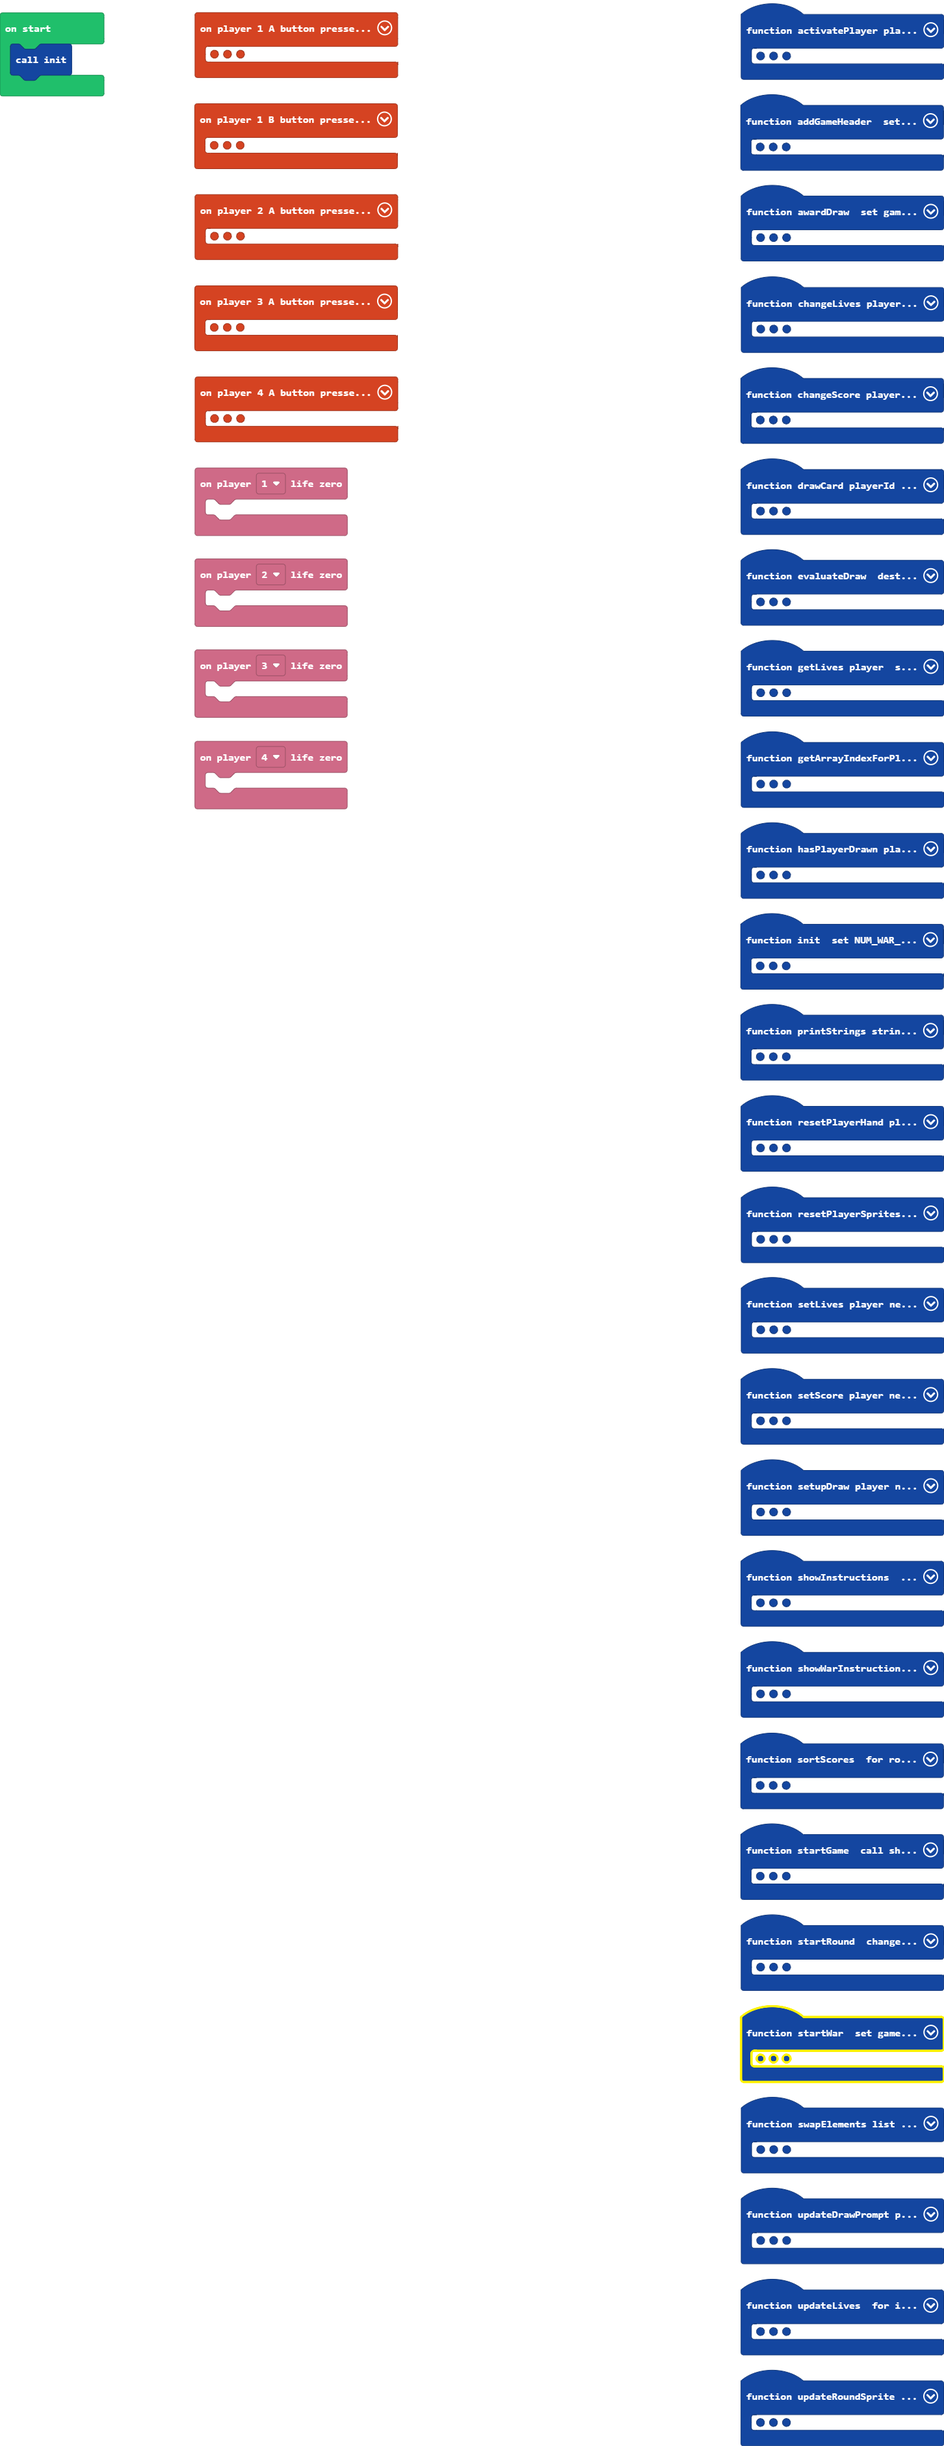
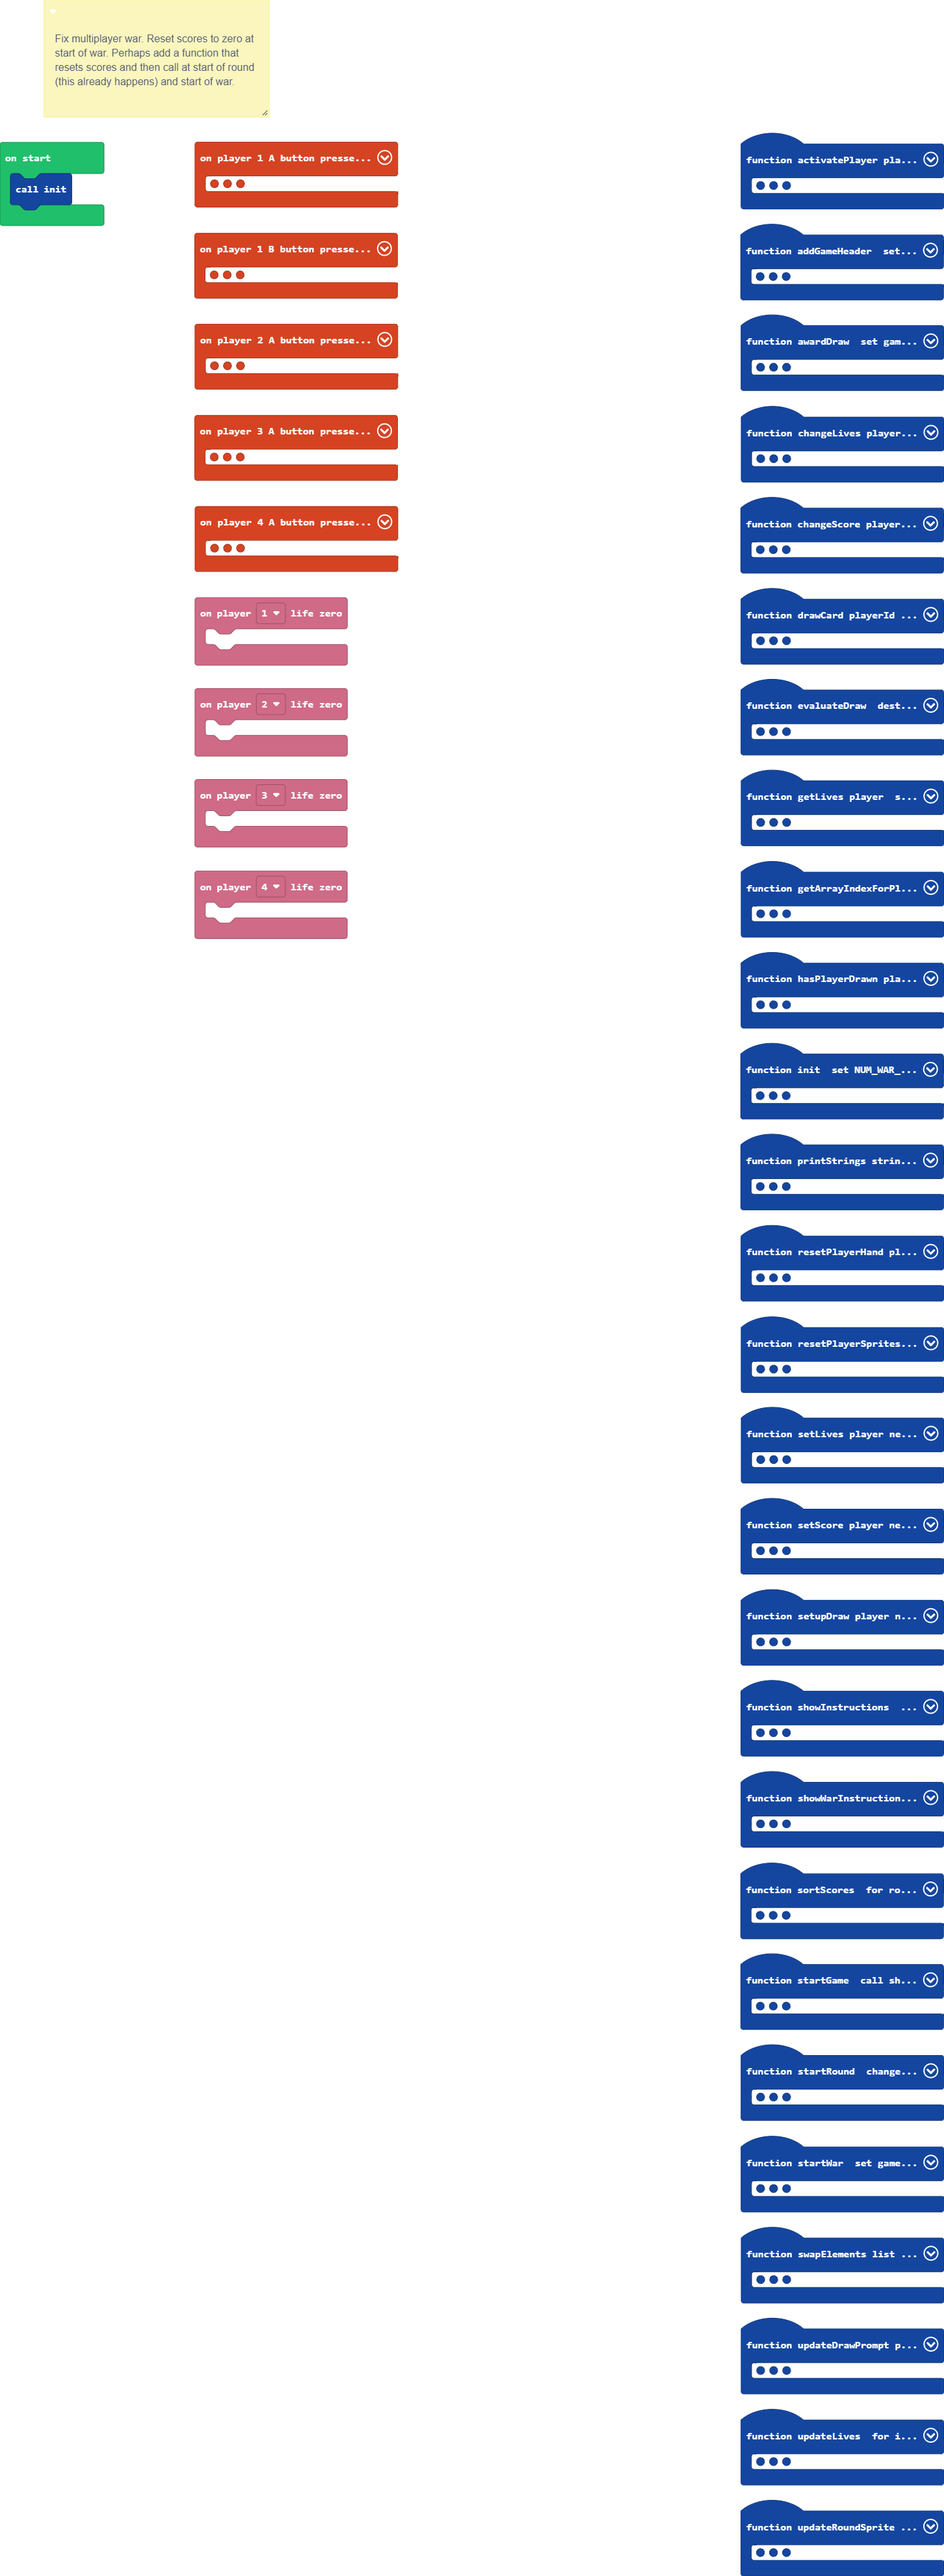
Add comment as reminder of next bug fix.

Changed region(s): [[0.7748, 0.0, 1.0, 0.9952], [0.0, 0.0, 0.4339, 0.3732]]

diff --git a/main.ts b/main.ts
@@ -1,6 +1,9 @@
 namespace SpriteKind {
     export const InstructionSprite = SpriteKind.create()
 }
+/**
+ * Fix multiplayer war. Reset scores to zero at start of war. Perhaps add a function that resets scores and then call at start of round (this already happens) and start of war.
+ */
 function getLives (player2: number) {
     playerIndex = playerIds.indexOf(player2)
     playerHand = playerHands[playerIndex]
